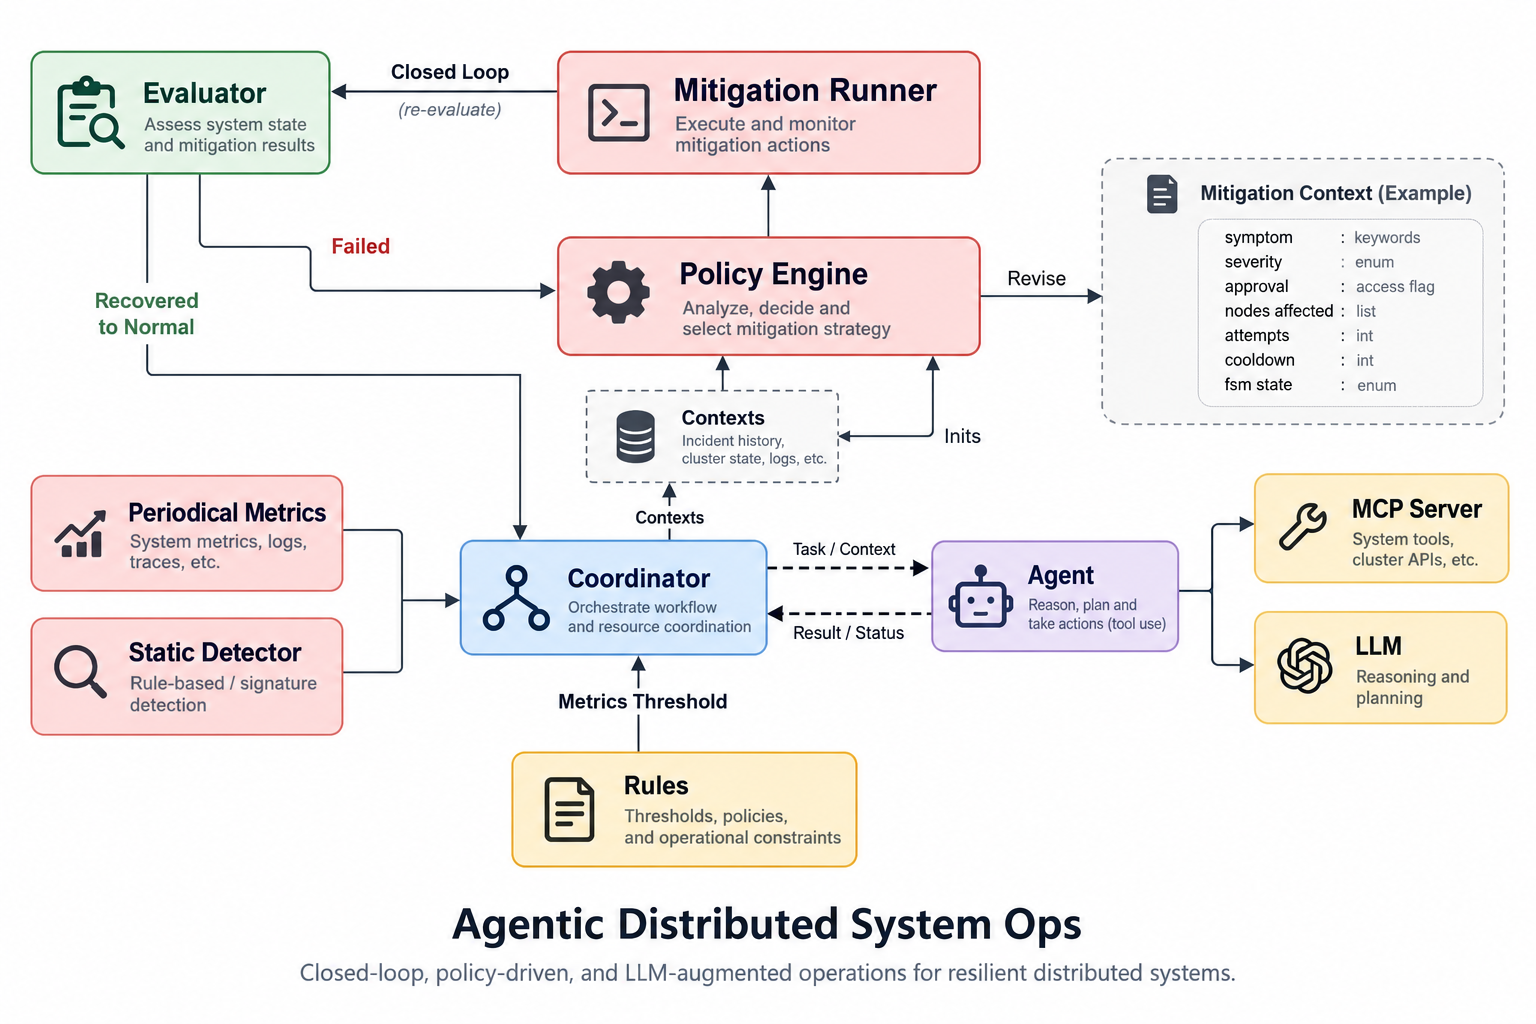
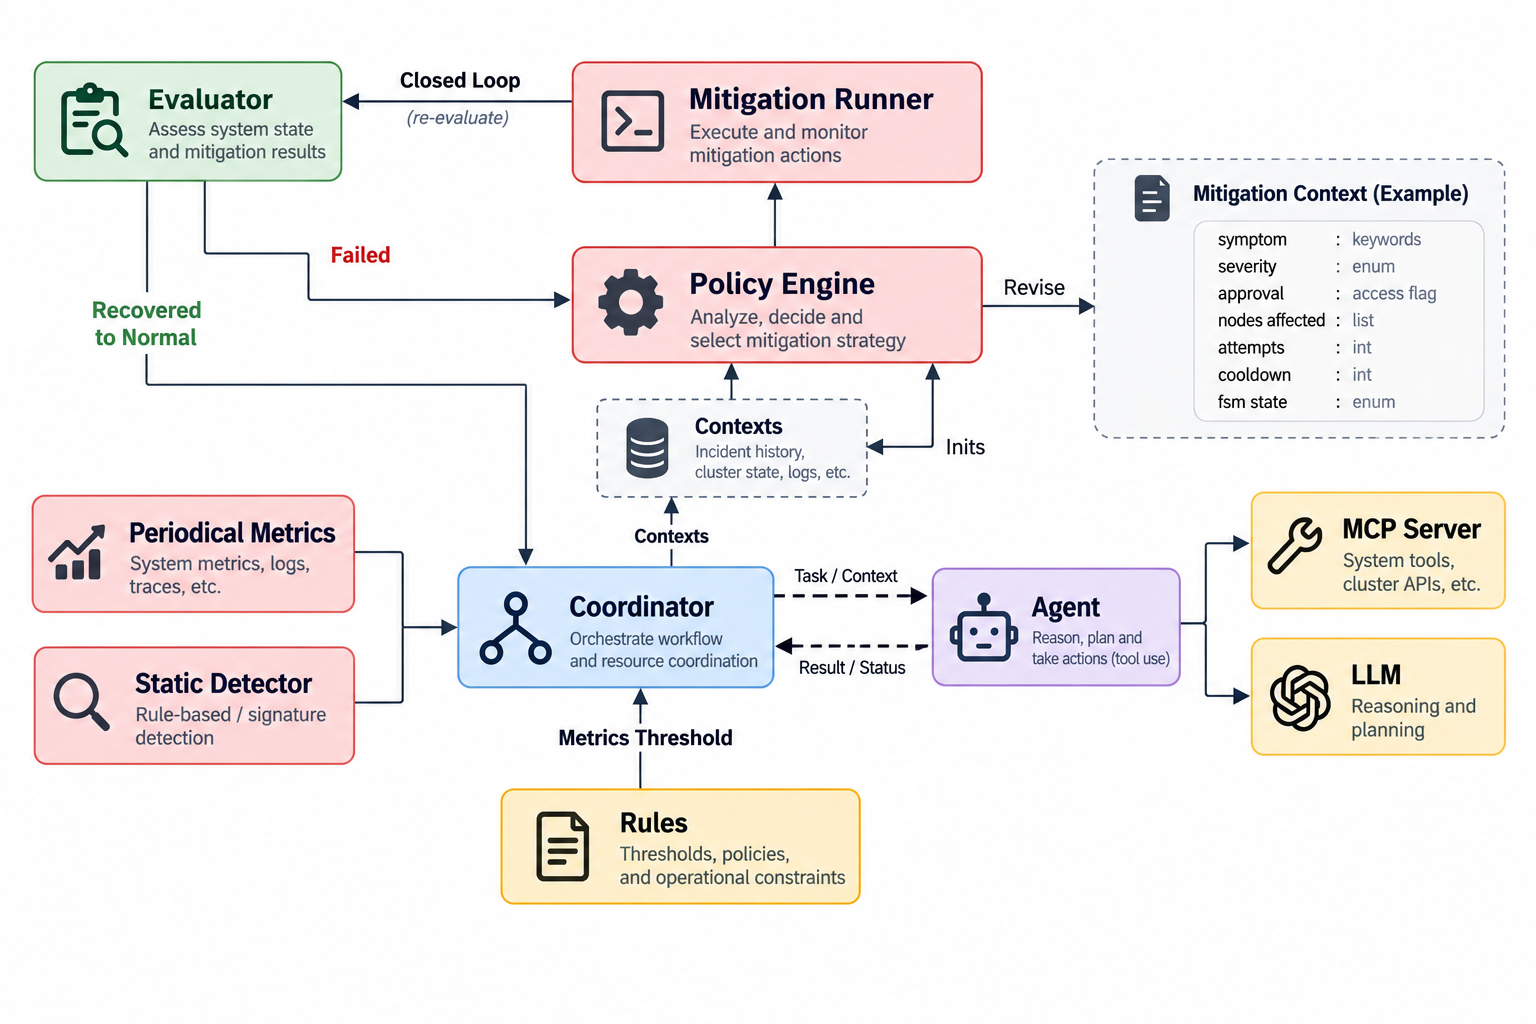
style: center project diagrams above the card text; newest Agentic DS Ops figure
Claude-Session: https://claude.ai/code/session_01C24ZEtcCWesGGXubZxPpLd

Changed region(s): [[0.0, 0.0312, 1.0, 0.9688]]

diff --git a/_sass/layout/_projects.scss b/_sass/layout/_projects.scss
@@ -192,12 +192,6 @@ html[data-theme="dark"] {
   will-change: transform;
 }
 
-@media (min-width: 48em) {
-  .proj-card--has-image {
-    grid-template-columns: minmax(0, 1fr) minmax(300px, 46%);
-    align-items: start;
-  }
-}
 
 /* accent stripe on the left */
 .proj-card::before {
@@ -376,9 +370,14 @@ html.js .proj-card.is-visible:focus-within {
 
 /* ---------- media ---------- */
 
+/* Diagram sits centered above the text, capped so very wide cards
+   don't blow it up past what the source resolution supports. */
 .proj-card__media {
+  order: -1;
   margin: 0;
-  align-self: start;
+  width: 100%;
+  max-width: 860px;
+  justify-self: center;
 }
 
 .proj-card__zoom {
@@ -529,5 +528,4 @@ html.js .proj-card.is-visible:focus-within {
 @media (max-width: 47.99em) {
   .proj-card { padding: 1.15rem 1.15rem 1.15rem 1.35rem; }
   .proj-card__head { flex-wrap: wrap; }
-  .proj-card__media { order: -1; }
 }
